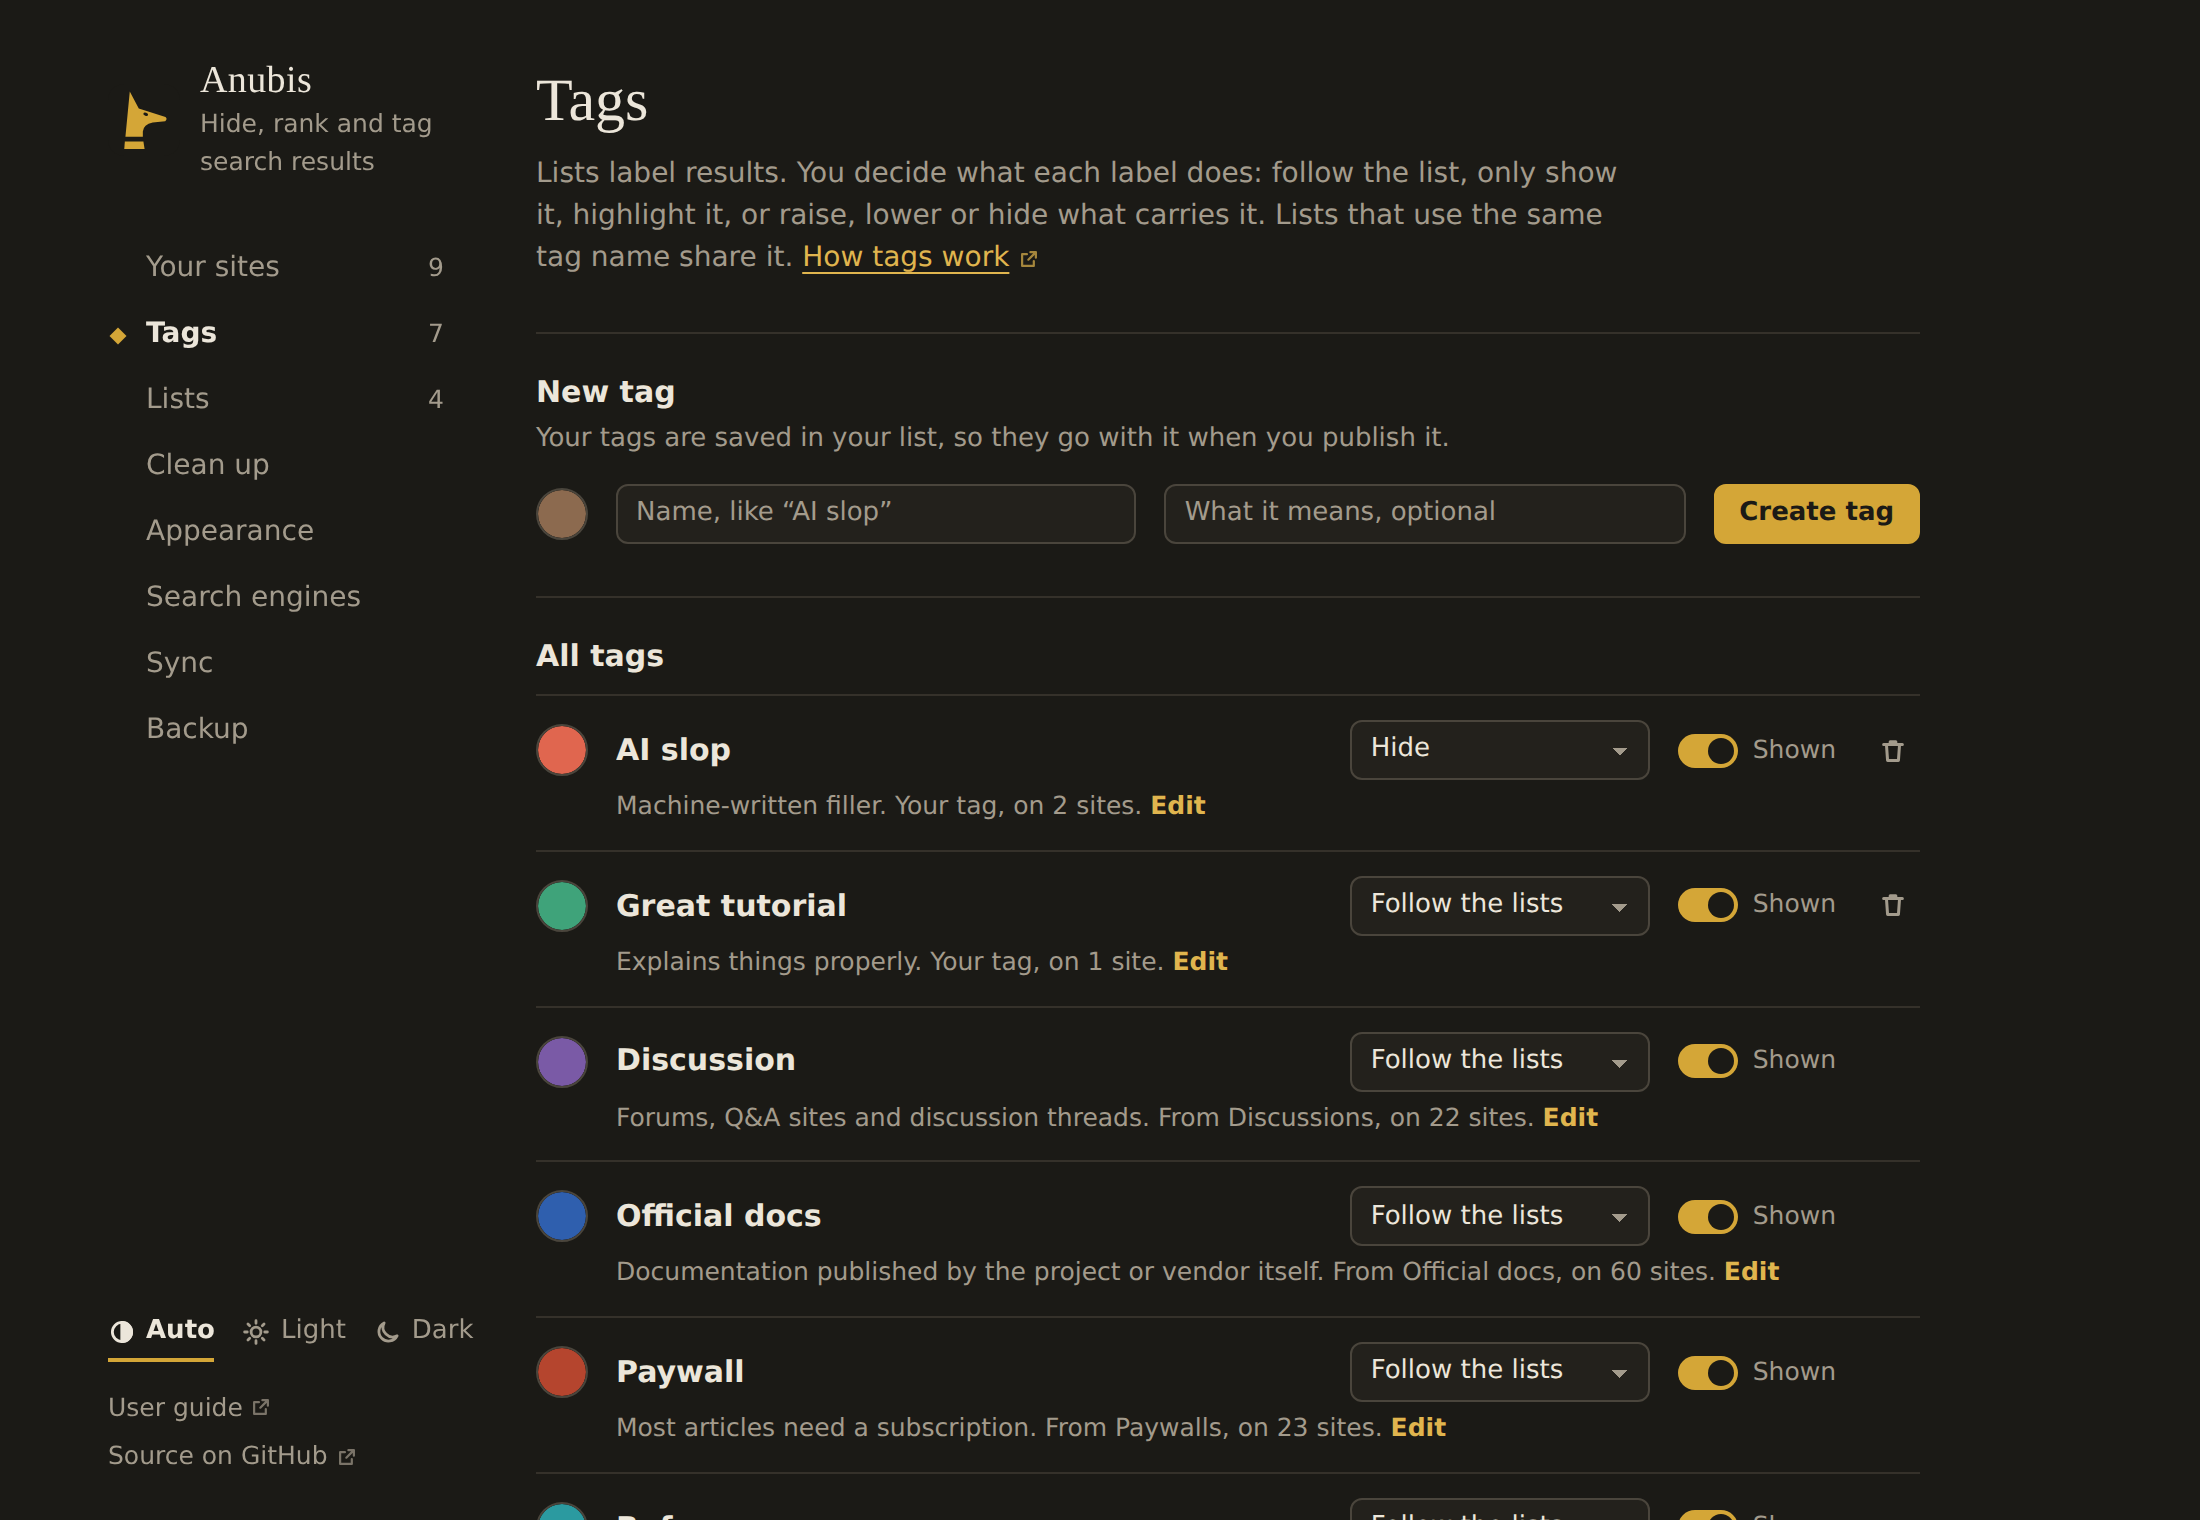
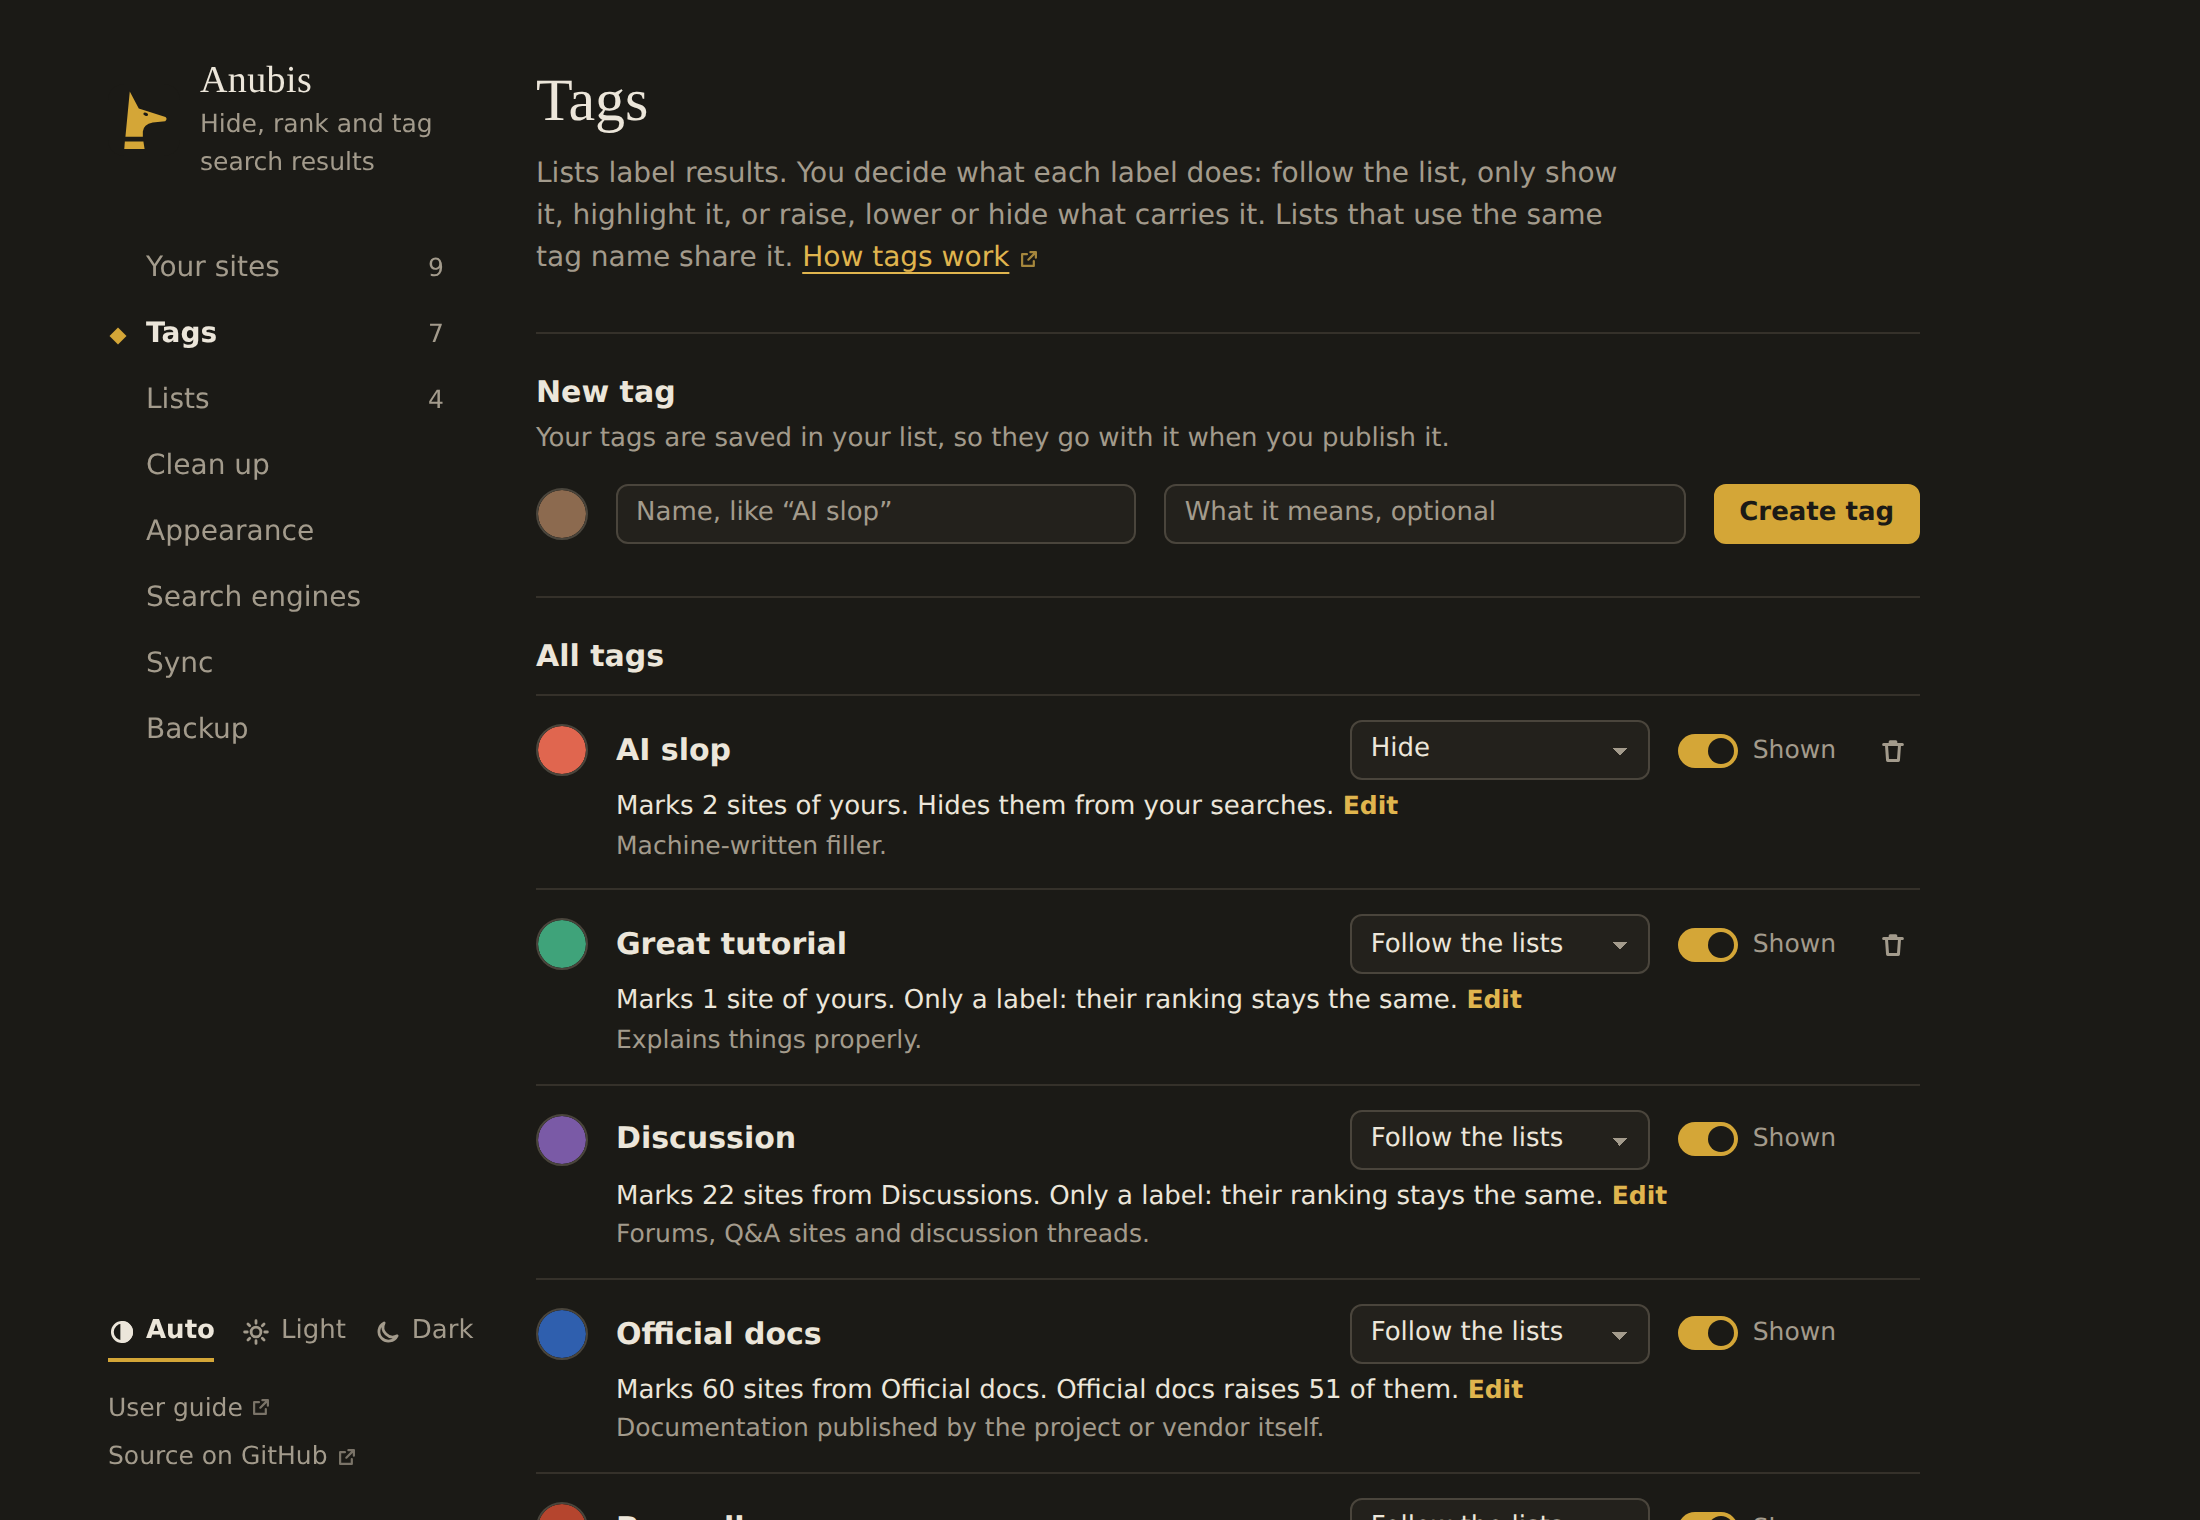
Say what each tag does on the Tags page

diff --git a/entrypoints/options/tags.ts b/entrypoints/options/tags.ts
@@ -1,5 +1,5 @@
 import { normalizeDomain } from '@/utils/domain';
-import { h, icon, plural } from '@/utils/dom';
+import { andList, h, icon, plural } from '@/utils/dom';
 import { ICON_CLOSE, ICON_TRASH, LEVEL_LABELS } from '@/utils/icons';
 import { colorForTag, normalizeColor, slugifyTag, TAG_PALETTE, type TagDef } from '@/utils/listformat';
 import type { CompiledList, TagAction } from '@/utils/matcher';
@@ -32,6 +32,63 @@ function listSitesWith(list: CompiledList, tag: string): string[] {
     for (const [site, rules] of map) if (rules.some((r) => r.tags.includes(tag))) out.push(site);
   }
   return out.sort();
+}
+
+/** What a list's own rules with this tag do to rankings, by count. */
+function listEffects(list: CompiledList, tag: string): { raise: number; lower: number; hide: number } {
+  const out = { raise: 0, lower: 0, hide: 0 };
+  for (const rules of [...list.bySite.values(), ...list.byHost.values(), list.generic]) {
+    for (const r of rules) {
+      if (!r.tags.includes(tag)) continue;
+      if (r.discard) out.hide++;
+      else if (r.pin || r.boost > 0) out.raise++;
+      else if (r.boost < 0) out.lower++;
+    }
+  }
+  return out;
+}
+
+/**
+ * What the tag does, in one direct sentence: which sites carry it and what happens
+ * to them. "Labels 23 sites from Paywalls. Their ranking stays the same."
+ */
+function effectSentence(tag: TagDef, action: TagAction, lists: CompiledList[], personalCount: number): string {
+  const from = lists.filter((l) => !l.personal && l.tags.some((t) => t.id === tag.id));
+  const who = [
+    personalCount ? `${plural(personalCount, 'site')} of yours` : null,
+    ...from.map((l) => `${plural(ruleCount(l, tag.id), 'site')} from ${l.name}`),
+  ].filter((w): w is string => !!w);
+  if (!who.length) return 'No sites carry it yet.';
+  const carriers = `Marks ${andList(who)}.`;
+  switch (action) {
+    case 'label':
+      return `${carriers} Only a label: their ranking stays the same.`;
+    case 'highlight':
+      return `${carriers} Highlights them in the tag’s colour.`;
+    case 'raise':
+      return `${carriers} Raises them in your searches.`;
+    case 'lower':
+      return `${carriers} Lowers them in your searches.`;
+    case 'hide':
+      return `${carriers} Hides them from your searches.`;
+  }
+  // "Follow the lists": what the lists' own rules say.
+  const total = { raise: 0, lower: 0, hide: 0 };
+  for (const l of from) {
+    const e = listEffects(l, tag.id);
+    total.raise += e.raise;
+    total.lower += e.lower;
+    total.hide += e.hide;
+  }
+  // One list is named and takes the singular: "Official docs raises 51 of them."
+  const one = from.length === 1;
+  const moves = [
+    total.raise ? `${one ? 'raises' : 'raise'} ${total.raise}` : null,
+    total.lower ? `${one ? 'lowers' : 'lower'} ${total.lower}` : null,
+    total.hide ? `${one ? 'hides' : 'hide'} ${total.hide}` : null,
+  ].filter((m): m is string => !!m);
+  if (!moves.length) return `${carriers} Only a label: their ranking stays the same.`;
+  return `${carriers} ${one ? from[0]!.name : 'The lists'} ${andList(moves)} of them.`;
 }
 
 /** How many of a list's sites an open tag names before "and N more". */
@@ -151,9 +208,6 @@ export async function renderTags(): Promise<HTMLElement> {
     .map((tag) => {
       const mine = personalDefs.has(tag.id);
       const pref = rules.prefs[tag.id] ?? {};
-      const sources = rules.lists
-        .filter((l) => !l.personal && l.tags.some((t) => t.id === tag.id))
-        .map((l) => `${l.name}, on ${plural(ruleCount(l, tag.id), 'site')}`);
       const personalCount = sites.filter((s) => s.tags.includes(tag.id)).length;
 
       const save = (patch: Partial<TagDef>) => {
@@ -192,7 +246,6 @@ export async function renderTags(): Promise<HTMLElement> {
         if (!panel.hidden) panel.querySelector<HTMLInputElement>('form input')?.focus();
       });
 
-      const uses = [mine ? `your tag${personalCount ? `, on ${plural(personalCount, 'site')}` : ''}` : null, ...sources.map((s) => `from ${s}`)].filter(Boolean);
       const row = h(
         'div',
         { class: `tag-row${open.has(tag.id) ? ' open' : ''}`, style: `--c: ${tag.color}` },
@@ -226,9 +279,8 @@ export async function renderTags(): Promise<HTMLElement> {
         h(
           'div',
           { class: 'meta' },
-          [tag.description, uses.length ? `${uses.join('; ').replace(/^./, (c) => c.toUpperCase())}.` : 'Not used yet.'].filter(Boolean).join(' '),
-          ' ',
-          toggle,
+          h('p', { class: 'effect' }, effectSentence(tag, pref.action ?? 'list', rules.lists, personalCount), ' ', toggle),
+          tag.description ? h('p', null, tag.description) : null,
         ),
         panel,
       );

diff --git a/entrypoints/options/style.css b/entrypoints/options/style.css
@@ -302,6 +302,13 @@ textarea.code {
   font-size: 15px;
   font-weight: 600;
 }
+.tag-row .meta p {
+  margin: 0;
+}
+.tag-row .meta .effect {
+  color: var(--text);
+  font-size: 13px;
+}
 .tag-row .meta .text-btn {
   font-size: 12.5px;
 }

diff --git a/docs/experiments.md b/docs/experiments.md
@@ -285,6 +285,7 @@ Subscribe on the lists directory, and links list authors share, lead to the guid
 - **Clean up settings read the wrong way round (2026-09-29):** the page listed nouns ("AI answers", "Videos") each with a switch, all off, so "AI answers: off" could read as AI answers already turned off. The project owner found it unclear. The list now sits under "Remove from every search" with one line saying on removes and off leaves it, the intro says to turn on what you'd rather not see, and labels that only named a topic say which part of the page goes ("Video panels", "Discussion panels", "Image rows"); "Discussions" also clashed with the Discussions tag. The Google switch's heading is "On Google" and its hint starts with what it does. Not tried: "Remove …" on every label, which repeated the verb seven times.
 - **"Share and back up" was too long for the settings sidebar (2026-09-29):** it wrapped onto two lines. The sidebar now says **Backup**, the most common reason to open it, and the page's title names all three things it does: "Back up, import and share". The address stays `#share`, since the guide and earlier builds link to it.
 - **Tagging sites from Settings → Tags (2026-09-29):** a tag's row only had its colour, an inline name field, what it does and Shown, so the only way to tag a site was the ⇅ menu on a search result, and a tag's sites weren't visible anywhere. The project owner asked to add sites to a tag and edit it from there. Each row now has **Edit**, which opens the tag's name (a labelled field, where before the name was an input that only looked like one on hover), its description for your own tags, your sites with the tag (× untags), a field that tags one or more sites, and up to eight sites from each list that gives the tag. Open tags stay open when the page renders again after a change, and the cursor goes back to the field, so several sites can be added in a row. At phone width a row's controls now wrap under its name; the name was cut to one letter.
+- **Saying what a tag does (2026-09-29):** a tag's row read "Most articles need a subscription. From Paywalls, on 23 sites.", which said what the tag means but not what it does; the project owner took Paywall to lower sites, when the Paywalls list only labels them. Each row now opens with a sentence worked out from the tag's setting and, on "Follow the lists", from the lists' own rules: "Marks 23 sites from Paywalls. Only a label: their ranking stays the same.", "Marks 60 sites from Official docs. Official docs raises 51 of them." The tag's description follows in small print. Paywall's description now says which sites it marks. Tag names were left short, since they're also the labels under results.
 
 ## Undo (2026-09-29)
 

diff --git a/docs/guide/tags.md b/docs/guide/tags.md
@@ -22,6 +22,8 @@ A list decides which sites get a tag. You decide what the tag does, in **Setting
 | **Raise** / **Lower** | Move the result five places up or down. |
 | **Hide** | Hide the result, whichever list tagged it. |
 
+Under each tag's name, one line says which sites carry it and what happens to them, for example "Marks 23 sites from Paywalls. Only a label: their ranking stays the same." The Paywalls list only labels; to lower paywalled sites, choose **Lower** for the tag.
+
 Turn off **Shown** to keep a tag working without showing its label under results. Press a tag's colour to change it.
 
 ## Tag sites yourself
